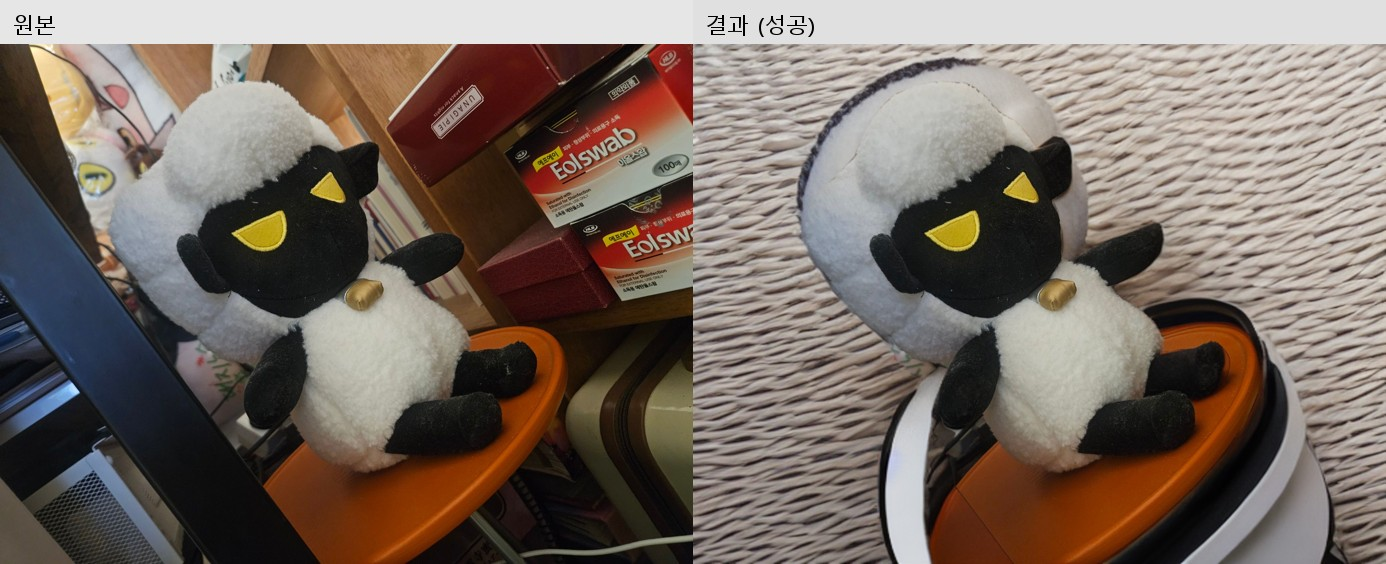
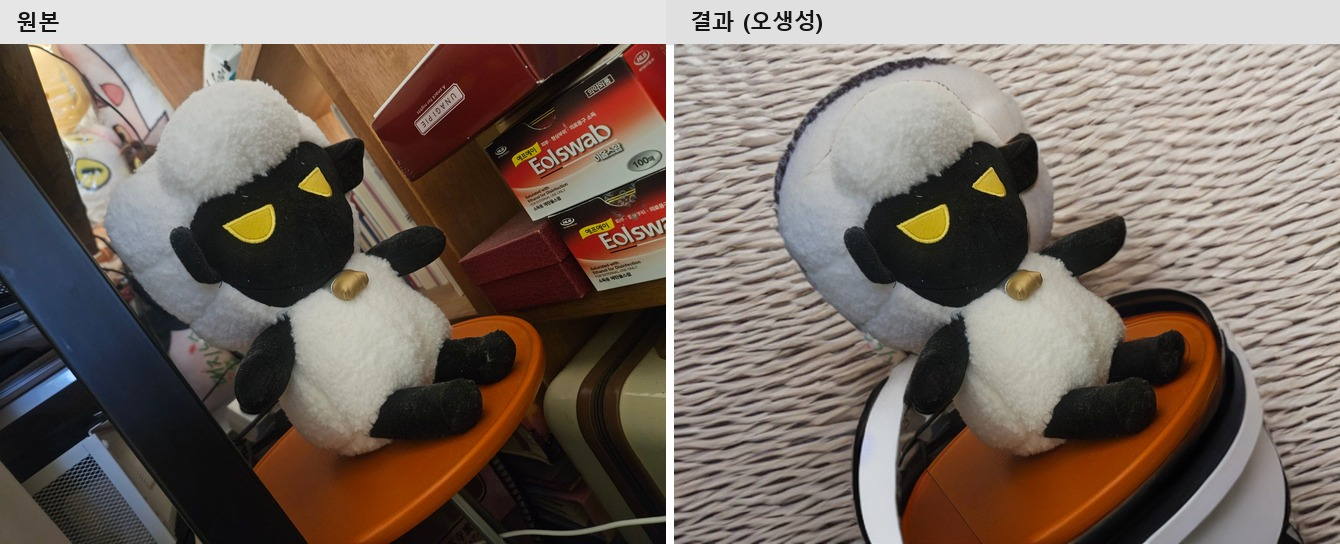
Full re-audit: zoom into every remaining success case, not just the flagged ones
Requested full re-review turned up hidden defects in 7 of the 8
remaining "success" images (02, 07, 09, 11, 14, 17, 20) - only
10_fruitbox_floor survives close inspection. Success rate drops from
40% (8/20) to 5% (1/20); 오생성 rises to 16/20 (80%).

New failure types found beyond the earlier prop-hallucination and
watermark-memorization ones:
- boundary object duplication/distortion (06, 07, 08, 14) - reads as
  "success" at a glance since the object looks removed, not duplicated
- incomplete background fill leaking through a mask gap (11)
- fabricated fur/thread-like texture hallucination (20)

Rewrites RESULTS.md's table/aggregate/qualitative sections and taxonomy,
MODEL_SELECTION.md's diffusion caveats, and RETROSPECTIVE.md Q2/Q4 to
reflect the real numbers. Regenerates comparison images for all
reclassified items (2 relabeled, 6 newly built) with a reusable
compare-image builder matching the existing visual style.

The central lesson: thumbnail side-by-side comparison could not
detect most of these defects - only zooming into every image did.

diff --git a/docs/RETROSPECTIVE.md b/docs/RETROSPECTIVE.md
@@ -37,9 +37,10 @@
 반대로 **처리 시간 쪽은 실측했다.** [`RESULTS.md`](RESULTS.md)의 "수작업 대비 처리 시간 단축 폭"
 항목을 위해 사진 한 장(12_toothpick_bathroom)을 실제로 클립스튜디오로 배경 제거해보고 10분이 걸리는 걸
 직접 쟀다. 즉 **양적 기준(처리 시간)은 베이스라인을 측정했지만, 품질 기준(80%)은 측정 없이 잡은 목표치**였다는
-비대칭이 있다. 결과적으로 실제 성공률은 40%(rembg 기준, 1차 YOLO 기준으로는 35%)로 나왔는데, 이걸
-"80%에 크게 못 미친다"고 판단할 근거 자체가 애초에 감으로 잡은 숫자와의 비교라서, 이 기준이 정말
-적절했는지는 다시 따져볼 여지가 있다.
+비대칭이 있다. 결과적으로 실제 성공률은 5%(rembg 기준, 확대 재검토 후 최종 수치. 1차 YOLO 기준으로는
+35%)로 나왔는데, 이걸 "80%에 크게 못 미친다"고 판단할 근거 자체가 애초에 감으로 잡은 숫자와의
+비교라서, 이 기준이 정말 적절했는지는 다시 따져볼 여지가 있다. (5%라는 숫자 자체의 경위는 4번 참고 —
+처음엔 40%로 나왔다가 전수 재검토 후 이렇게 떨어졌다.)
 
 ## 3. 실행 위치나 라이선스 때문에 제외한 후보가 있었습니까? 그 후보가 점수로는 몇 위였습니까?
 
@@ -61,30 +62,44 @@ YOLOv8-seg는 라이선스만으로 제외된 게 아니라 라이선스 인지 
 ## 4. 기준을 넘지 못한 항목이 있다면, 다음에 무엇을 바꿔 다시 확인하겠습니까?
 
 [`RESULTS.md`](RESULTS.md)의 성공 기준 3개 중 ①(잔여물 없는 비율 80% 이상)과 ③(자연스러워 바로 쓸
-수 있는 비율)을 넘지 못했다 — 둘 다 40%로, rembg 교체 후에도 여전히 미달이다. ②(처리 시간 단축)는
+수 있는 비율)을 넘지 못했다 — 둘 다 5%로, rembg 교체 후에도 크게 미달이다. ②(처리 시간 단축)는
 18배 단축으로 기준 자체를 명시적 수치로 잡진 않았지만 목적은 달성했다.
 
-미달의 원인은 diffusion inpainting의 "오생성"이었고(마스크 품질과는 무관 — rembg로 바꿔도 그대로
-남음), 그 안에서도 두 가지 다른 유형이 있다는 걸 뒤늦게 확인했다 — 조명 장비·장식품처럼 그럴듯한 소품을
-새로 창작하는 일반적인 오생성과, 12번(toothpick_bathroom)에서 확대해보고서야 발견한 **스톡 사진 워터마크
-재현**(로고+ID 번호 패턴)이다. 후자는 diffusion 모델이 학습 데이터에 섞인 워터마크 있는 스톡 이미지를
-기억해뒀다가 재현한 것에 가까워서, 원인이 다른 만큼 대응도 따로 검증해야 한다. 다음에 바꿔볼 것은
-`RESULTS.md`에 이미 적어둔 대로:
+**이 5%라는 숫자 자체가 이번 회고의 핵심 사건이다.** 처음 이 문서를 쓸 때는 성공률이 40%(8/20)였다.
+그런데 12번(toothpick_bathroom)에서 워터마크를, 06번(swabbox_bathroom)에서 탁상시계 복제를 잇달아
+발견하면서 "성공으로 분류한 것도 확대해서 다시 봐야 하는 것 아닌가"라는 의심이 들었고, 실제로 남은
+"성공" 8건 전부를 하나씩 확대해서 재검토했다. 결과는 예상보다 훨씬 나빴다 — **8건 중 7건에서
+추가 결함이 발견됐다.** 최종적으로 성공은 20장 중 1건(10번, fruitbox_floor)만 남았다.
 
-1. 네거티브 프롬프트에 `object, prop, decoration, reflection` 등을 추가해 배경에 새 사물이 생기는 것
-   자체를 억제
-2. 워터마크 재현은 `watermark, text, logo, signature, stock photo` 같은 워터마크 특화 네거티브
-   프롬프트로 별도 검증 — 일반 오생성 억제 프롬프트로 같이 해결되는지 아직 확인 안 됨
-3. SDXL 기반 inpainting이나 LaMa(비-생성형)와 비교해 오생성 빈도 차이 확인
-4. 배경이 어둡거나 색이 진할수록 오생성이 잦다는 패턴이 나왔으니, 촬영 시 배경 밝기를 일정 수준
-   이상으로 확보하는 촬영 가이드 마련
+발견된 오생성은 확대 재검토 후 다섯 유형으로 정리된다(자세한 사례는 `RESULTS.md` 참고):
 
-추가로 이번 회고에서 새로 드러난 것 두 가지: 80% 목표치 자체가 측정 없이 잡은 숫자였으니, 다음 반복
-전에 "애초에 몇 %가 현실적인 목표인지"를 rembg 결과(40%) 같은 실측 데이터를 기준으로 다시 잡는 것도
-필요하다. 그리고 "성공"으로 분류한 이미지도 확대해서 다시 봐야 한다는 것 — 12번은 원래 육안으로는
-문제없어 보여 성공으로 분류했지만, 확대하고서야 워터마크가 보였다.
+1. **소품·장식 창작형 (9건)**: 조명 장비·장식품·케이블·빈 카드처럼 원본에 없던 사물을 배경에
+   아예 새로 만들어냄. 육안으로도 비교적 알아보기 쉽다.
+2. **경계 사물 복제/왜곡형 (4건)**: 마스크 경계에 걸친 기존 사물(탁상시계, 병, 효자손, 카메라)이
+   복제되거나 다른 모습으로 왜곡됨. **가장 위험한 유형** — "사물이 사라진 깔끔한 배경"처럼 보여서
+   확대하지 않으면 성공으로 오분류하기 쉽다. 06, 07, 08, 14번 4건 모두 원래 성공으로 분류돼 있었다.
+3. **배경 잔여물 미제거형 (1건)**: 사물의 뚫린 틈 사이로 보이는 원본 배경이 깔끔하게 안 지워지고
+   얼룩으로 남음.
+4. **텍스처 헐루시네이션형 (1건)**: 깔끔한 배경 대신 원본에 없던 이상한 재질(털/실 뭉치)이 생성됨.
+5. **스톡 워터마크 재현형 (1건)**: 학습 데이터에 섞인 워터마크 있는 스톡 이미지를 diffusion이
+   memorization으로 재현.
 
-이 예측은 곧바로 다시 맞아떨어졌다. 이 회고를 쓴 직후 06번(swabbox_bathroom)을 다시 봤더니, "탁상시계가
-사라진 깔끔한 배경"이라고 성공으로 분류했던 게 실제로는 시계가 사라진 게 아니라 2~3개로 복제돼 있던
-것이었다. 원래 성공 9건이었던 게 8건으로 줄었다 — 확대해서 다시 보기 전까진 몰랐던 결함이 두 번
-연속으로 나온 셈이라, 남은 성공 8건도 여전히 안심할 수 없다.
+2~5번 유형의 공통점은 **1차(축소 이미지 훑어보기) 평가에서는 전부 성공으로 분류됐다**는 것이다. 즉
+이번 PoC에서 가장 크게 틀렸던 건 diffusion 모델의 성능이 아니라, **"원본과 나란히 놓고 훑어보기"라는
+평가 방법 자체가 이 파이프라인의 실제 결함률을 전혀 측정하지 못했다**는 점이었다. 다음에 바꿔볼 것:
+
+1. **모든 결과 이미지를 확대해서 검수하는 단계를 파이프라인에 필수로 포함** — 이번 재검토로 얻은 가장
+   중요한 교훈. 축소 이미지 비교만으로는 오생성 여부를 절반도 못 잡는다(1차 40% → 재검토 후 80%).
+2. 네거티브 프롬프트에 `object, prop, decoration, reflection` 등을 추가해 배경에 새 사물이 생기는 것
+   자체를 억제하는 실험 — 다만 오생성 비율이 40%가 아니라 80%임이 드러난 만큼, 프롬프트 튜닝만으로
+   해결될 규모가 아닐 가능성이 높다.
+3. 워터마크 재현은 `watermark, text, logo, signature, stock photo` 같은 특화 네거티브 프롬프트로
+   별도 검증 — 일반 오생성 억제 프롬프트로 같이 해결되는지 아직 확인 안 됨
+4. SDXL 기반 inpainting이나 LaMa(비-생성형)와 비교해 오생성 빈도 차이 확인 — 지금 수준(오생성 80%)이면
+   diffusion inpainting이라는 접근 자체를 재검토할 필요가 있다.
+5. 80% 목표치 자체가 측정 없이 잡은 숫자였으니, 다음 반복 전에 "몇 %가 현실적인 목표인지"를 이번
+   실측 데이터(5%)를 기준으로 다시 잡는 것도 필요하다.
+
+돌이켜보면 "성공 9건 중에도 비슷하게 놓친 결함이 더 있을 수 있다"는 예측을 세우고도, 정작 그 예측을
+실제로 검증(전수 확대 재검토)한 건 이 회고를 다 쓴 뒤였다. 예측을 세우는 것과 그 예측을 실제로
+검증하는 것 사이에는 차이가 있다는 걸 이번에 체감했다.
